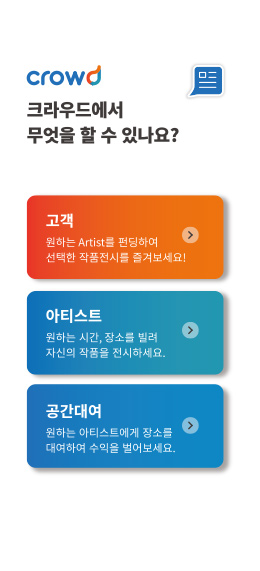
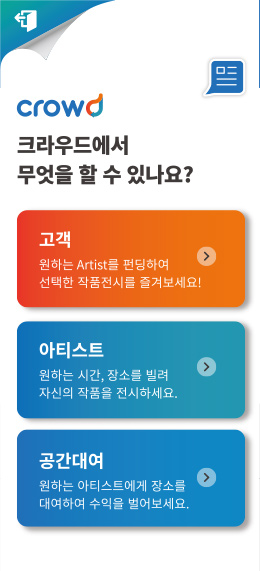
위치변경 및 로그아웃

diff --git a/git_test/src/java_project/GUI_Len_apply_place.java b/git_test/src/java_project/GUI_Len_apply_place.java
@@ -54,7 +54,7 @@ public class GUI_Len_apply_place {
     */
    private void initialize() {
       frame = new JFrame();
-      frame.setBounds(100, 100, 279, 610);
+      frame.setBounds(820, 250, 279, 610);
       frame.setDefaultCloseOperation(JFrame.EXIT_ON_CLOSE);
 
       JLabel lbl_pre = new JLabel("");

diff --git a/git_test/src/java_project/gui_art_UpdateFinal.java b/git_test/src/java_project/gui_art_UpdateFinal.java
@@ -51,7 +51,7 @@ public class gui_art_UpdateFinal {
 	 */
 	private void initialize(String id, String pw) {
 		frame = new JFrame();
-		frame.setBounds(100, 100, 279, 610);
+		frame.setBounds(820, 250, 279, 610);
 		frame.setDefaultCloseOperation(JFrame.EXIT_ON_CLOSE);
 
 		//System.out.println(id + pw);

diff --git a/git_test/src/java_project/gui_art_Mypage.java b/git_test/src/java_project/gui_art_Mypage.java
@@ -43,7 +43,7 @@ public class gui_art_Mypage {
 	 */
 	private void initialize() {
 		frame = new JFrame();
-		frame.setBounds(100, 100, 279, 610);
+		frame.setBounds(820, 250, 279, 610);
 		frame.setDefaultCloseOperation(JFrame.EXIT_ON_CLOSE);
 		frame.getContentPane().setLayout(null);
 		

diff --git a/git_test/src/java_project/gui_len_Mypage.java b/git_test/src/java_project/gui_len_Mypage.java
@@ -42,7 +42,7 @@ public class gui_len_Mypage {
 	 */
 	private void initialize() {
 		frame = new JFrame();
-		frame.setBounds(100, 100, 279, 610);
+		frame.setBounds(820, 250, 279, 610);
 		frame.setDefaultCloseOperation(JFrame.EXIT_ON_CLOSE);
 		frame.getContentPane().setLayout(null);
 		
